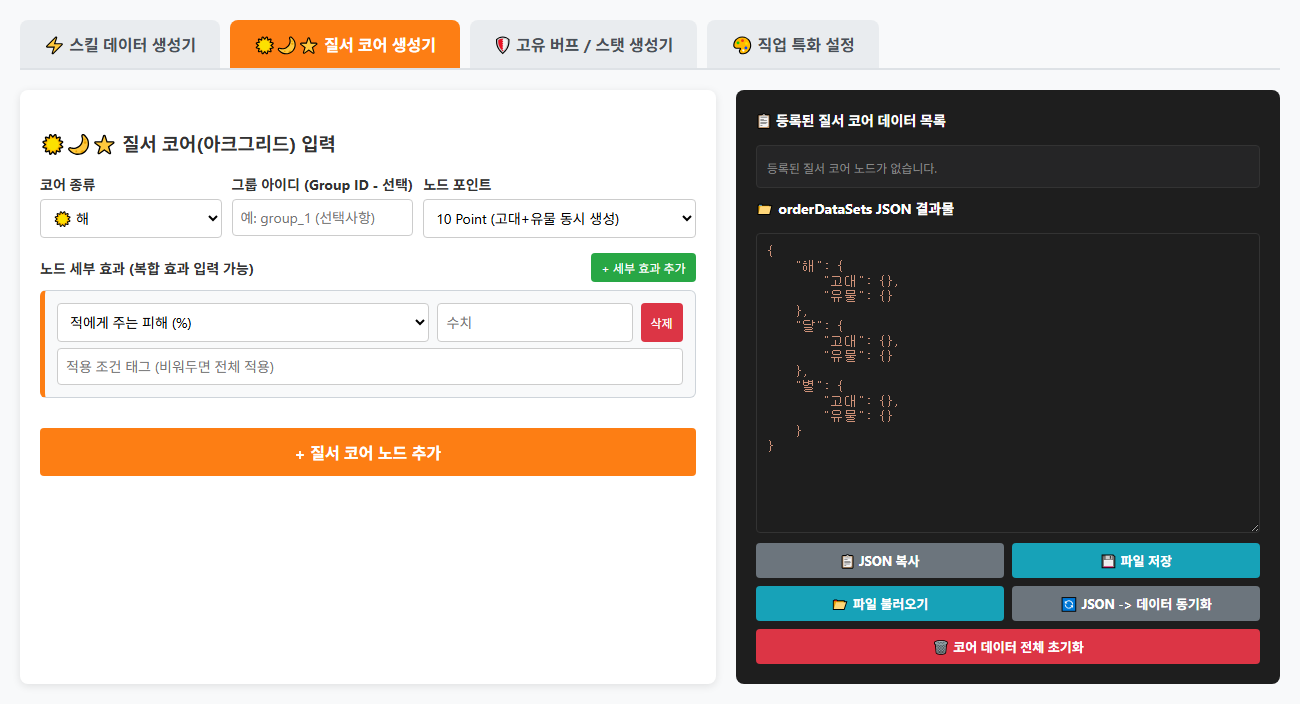
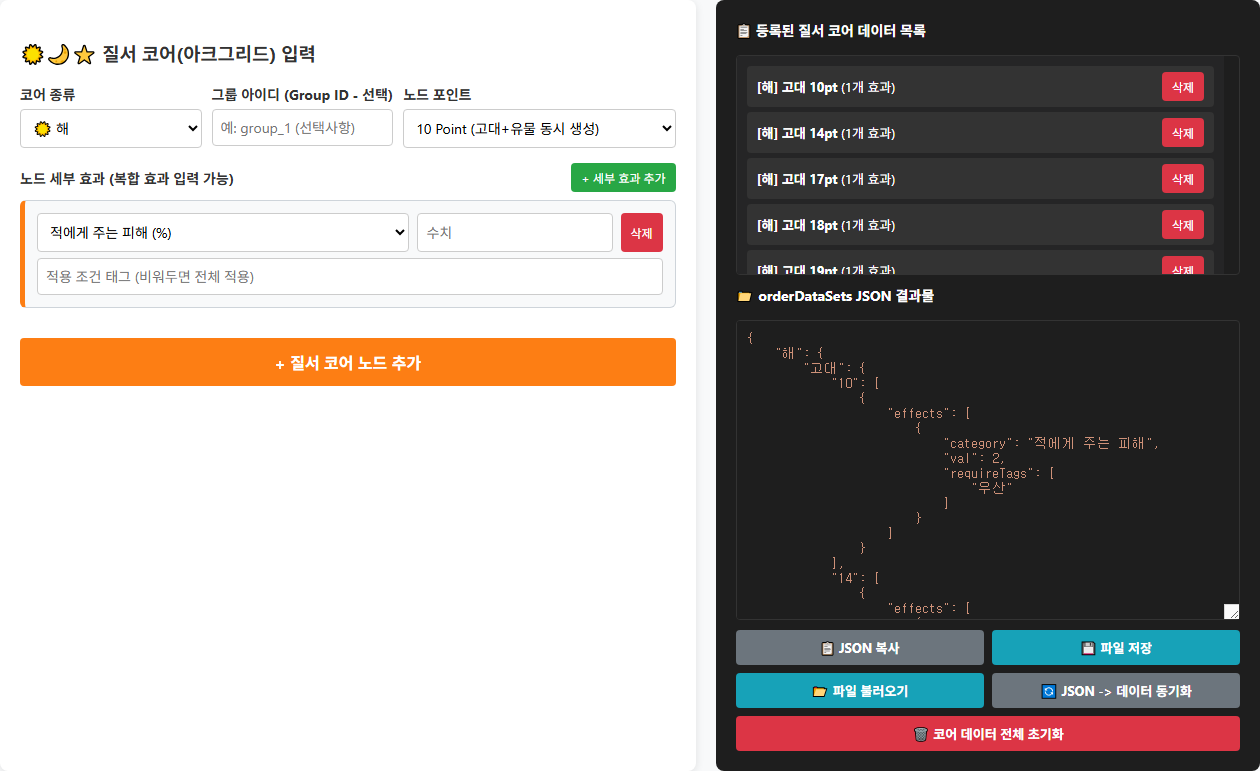
리드미 작성

diff --git a/README.md b/README.md
@@ -1,4 +1,4 @@
-# 🌩 로스트아크 기상술사 시뮬레이터
+# 🌩 로스트아크 스킬 데미지 시뮬레이터
 
 [lopec.kr](https://lopec.kr) 캐릭터 시뮬레이터 세팅 상태를 실시간으로 파악하여 스킬 데미지 연산 및 세팅 간 비교 분석을 도와주는 Tampermonkey 확장 스크립트입니다.
 
@@ -35,8 +35,11 @@
 ---
 
 ### 1⃣ 질서 코어 (아크그리드) 데이터 작성
+
+질풍 기상술사 비연참 세팅을 예시로 사용했습니다. 
+
 * 탭 메뉴: `☀🌙⭐ 질서 코어 생성기`
-![alt text](image.png)
+이미지0
 
 각 질서 코어(해/달/별) 노드의 단계별 효과를 입력합니다.
 
@@ -45,11 +48,13 @@
 2. **그룹 아이디 (Group ID)**: 노드 그룹 구분이 필요한 경우 입력합니다. (선택 사항, 빈칸 가능)
 
 그룹 아이디는 코어 내에서 '합연산'이 필요한 데이터가 있을 때 사용합니다.  
-(/assets/0001.png)  
+
+이미지1
+
 예를들어 '바람의 칼날' 코어는 14P와 17P가 합연산으로 계산됩니다.  
 이러한 경우 그룹 아이디에 같은 아이디를 입력해야 합연산으로 계산됩니다.  
 그룹 아이디 없이 입력 시 곱연산이 되어 바람의 칼날은 44%의 데미지 증가가 아니라 25%와 44%가 곱연산으로 적용되어 계산에 오류가 생깁니다.
-
+그룹 아이디 이름은 아무거나 해도 상관 없습니다. 합연산이 되는 것들이 이름이 같기만 하면 됩니다.
 
 3. **노드 포인트 선택**: 
    * `10pt`, `14pt`, `18~20pt`: 고대/유물 공통 수치 자동 생성
@@ -57,24 +62,30 @@
 
 4. **세부 효과 및 조건 태그 입력**:
    * 스탯/피해 범주 선택 후 수치 입력
-   * **적용 조건 태그**: 특정 스킬이나 스킬 그룹에만 적용되는 효과라면 해당 스킬의 태그를 입력합니다. (예: `칼바람` , `우산스킬`)
+   * 한번에 여러 개의 카테고리의 효과가 들어간다면 **세부 효과 추가**로 다 넣어 주셔야 합니다. 
+   * **적용 조건 태그**: 특정 스킬이나 스킬 그룹에만 적용되는 효과라면 해당 스킬의 태그를 입력합니다. (예: `칼바람`,`타대`, `우산` )
    * 💡 *팁: 여기서 입력한 조건 태그를 메모해 두세요!*
 
 ---
 
 ### 2⃣ 직업 특화 설정
-![alt text](image-1.png)
+
+이미지2
+
 * 탭 메뉴: `🎨 직업 특화 설정`
 
 직업의 특화 스탯이 특정 스킬 계수에 주는 영향을 설정합니다.
 
-1. **특화 계수 (Specialization Coefficient)**: 特化 1당 증가하는 데미지 비율 계수를 입력합니다. (예: `0.00085`)
-2. **적용 스킬 태그**: 특화 데미지 증가 효과를 받는 스킬 태그들을 쉼표(`,`)로 구분하여 입력합니다. (예: `우산, 급습, 랜스`)
+1. **특화 계수 (Specialization Coefficient)**: 특화 계수를 입력합니다. (예: `0.0555`)
+2. **적용 스킬 태그**: 특화 데미지 증가 효과를 받는 스킬 태그들을 쉼표(`,`)로 구분하여 입력합니다. (예: `우산`, `급습`, `랜스`)
 3. **[💾 특화 설정 저장]** 버튼을 눌러 반영합니다.
 
 ---
 
 ### 3⃣ 고유 버프 / 스탯 작성
+
+이미지3
+
 * 탭 메뉴: `🛡 고유 버프 / 스탯 생성기`
 
 기본 스탯, 아크 패시브 깨달음 등 캐릭터에 적용되는 고유 버프 정보를 입력합니다.
@@ -84,21 +95,28 @@
 2. **세부 효과 추가**:
    * 효과 범주(치명타 적중률, 공격력 %, 쿨타임 감소 등)와 수치를 입력합니다.
    * **적용 스킬 태그**: 해당 버프가 특정 스킬군에만 들어가는 경우 태그를 작성합니다. (비워둘 경우 캐릭터 전체 적용)
+
 3. **[+ 버프 / 스탯 목록에 추가]** 버튼을 클릭합니다.
 
 ---
 
 ### 4⃣ 스킬 데이터 작성
+
+이미지4
+
 * 탭 메뉴: `⚡ 스킬 데이터 생성기`
 
 앞서 작성한 **질서 코어, 특화, 버프에서 사용했던 태그들을 포함**하여 최종 스킬 데이터를 구성합니다.
 
-1. **기본 정보 입력**: `스킬명`, `상수(Constant)`, `계수(Coefficient)`, `기본 쿨타임(초)`을 입력합니다.  
-모션 상수와 모션 계수를 입력해야 하는데 로스트아크 스킬 데미지는 모션 상수 + (공격력 x 모션 계수) 로 계산됩니다.  
+1. **기본 정보 입력**: `스킬명`, `상수(Constant)`, `계수(Coefficient)`, `기본 쿨타임(초)`, `마나 소모량`을 입력합니다.   
+`마나 소모량`의 경우 마나 용광로를 사용하지 않는 경우 입력하지 않아도 상관은 없습니다.
+
+**모션 상수**와 **모션 계수**를 입력해야 하는데 로스트아크 스킬 데미지는 **모션 상수 + (공격력 x 모션 계수)** 로 계산됩니다.  
 자세한 내용은 https://www.inven.co.kr/board/lostark/4821/109679 이걸 참고해주시고  
 모션 상수는 **공격력이 0일 때의 스킬 툴팁 표기 데미지** 입니다.  
 장비, 장신구, 코어, 젬을 전부 빼고 캐릭터 정보창에 공격력이 0인걸 확인 후 스킬창에서 툴팁을 확인해서 입력해주시면 됩니다. 모션 상수는 인벤 스킬 정보에서도 확인 가능합니다.  
 모션 계수는 **(공격력이 n일 때의 스킬 툴팁 표기 데미지 - 모션 상수) ÷ 공격력 n** 으로 구할 수 있습니다.
+사용하는 스킬 레벨에 맞춰서 모션 상수와 모션 계수를 찾아서 입력하시면 됩니다.
 
 2. **태그 입력 (중요 🌟)**:
 
